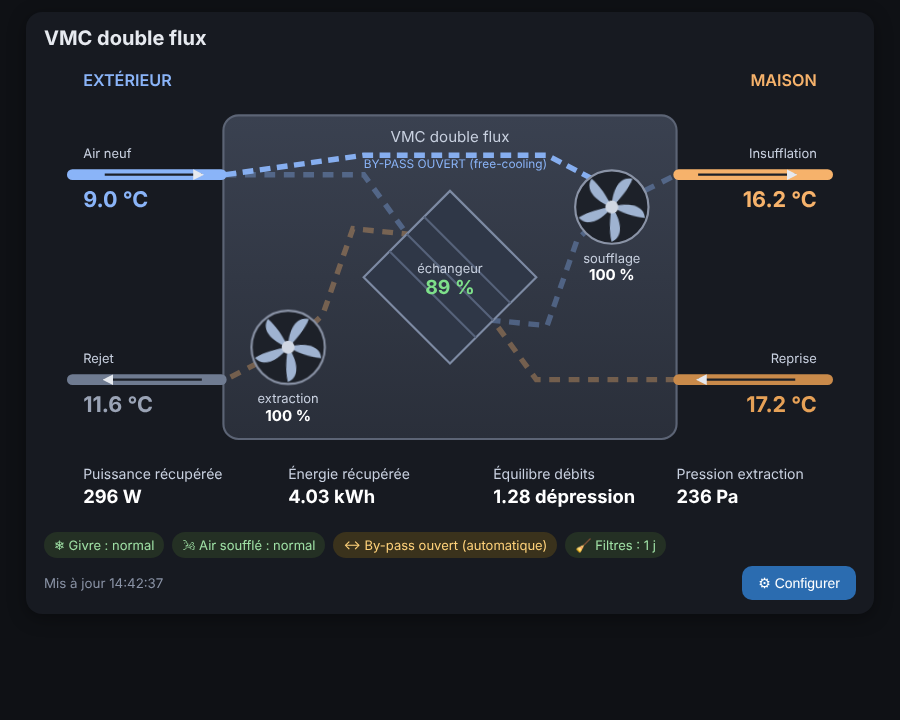
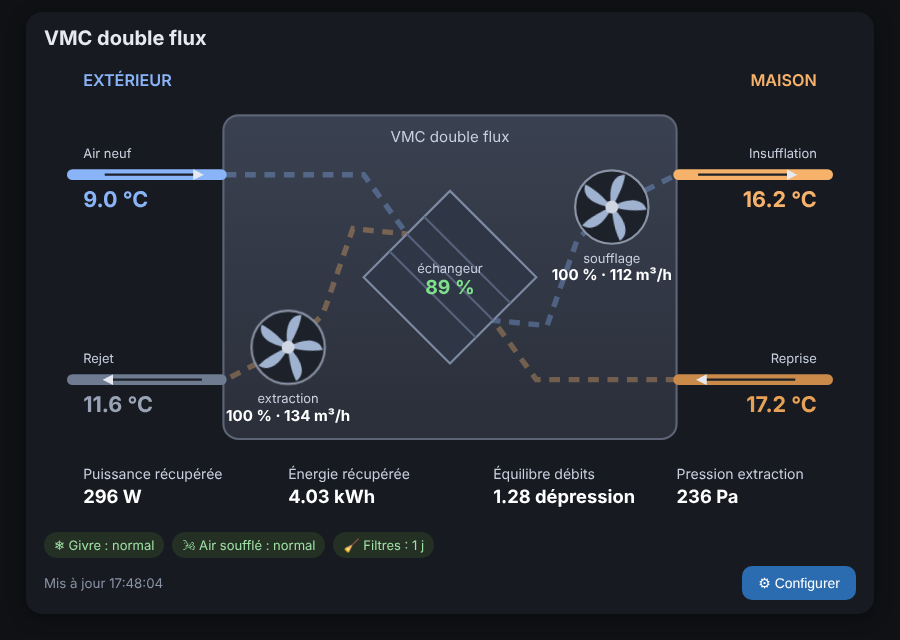
Étalonnage des débits : saisie des mesures, débits calculés en continu, puissance récupérée réelle
Claude-Session: https://claude.ai/code/session_01LVMYbbhn3WVQ2CKxBwbHL5

diff --git a/esphome/vmc_synoptique.js b/esphome/vmc_synoptique.js
@@ -29,6 +29,8 @@
     bp: "By-pass (relais)",
     bpm: "By-pass \u2013 mode",
     ag: "Antigel \u2013 baisse du soufflage",
+    qs: "D\u00e9bit soufflage",
+    qe: "D\u00e9bit extraction",
   };
 
   const slug = (s) =>
@@ -204,8 +206,8 @@
   function render() {
     set("v-text", f1("text", "\u00b0C")); set("v-tins", f1("tins", "\u00b0C"));
     set("v-trep", f1("trep", "\u00b0C")); set("v-trej", f1("trej", "\u00b0C"));
-    set("v-vs", num("vs") === null ? "-- %" : Math.round(num("vs")) + " %");
-    set("v-ve", num("ve") === null ? "-- %" : Math.round(num("ve")) + " %");
+    set("v-vs", (num("vs") === null ? "-- %" : Math.round(num("vs")) + " %") + (num("qs") === null ? "" : " \u00b7 " + Math.round(num("qs")) + " m\u00b3/h"));
+    set("v-ve", (num("ve") === null ? "-- %" : Math.round(num("ve")) + " %") + (num("qe") === null ? "" : " \u00b7 " + Math.round(num("qe")) + " m\u00b3/h"));
     set("v-eta", num("eta") === null ? "-- %" : Math.round(num("eta")) + " %");
     set("v-pw", num("pw") === null ? "-- W" : Math.round(num("pw")) + " W");
     set("v-en", num("en") === null ? "-- kWh" : (num("en") / 1000).toFixed(2) + " kWh");

diff --git a/README.md b/README.md
@@ -9,6 +9,7 @@ Supervision et pilotage d'une **VMC double flux** (testé sur **Atlantic Duocosy
 - **4 sondes DS18B20** (air neuf, insufflation, reprise, rejet), avec **affectation des sondes modifiable depuis l'interface**, sans recompiler.
 - **Rendements** côté soufflage et côté extraction, rendement moyen sur 1 h, **puissance et énergie récupérées**.
 - **Rapport des débits extraction/soufflage**, calculé par bilan thermique de l'échangeur : équilibre ou dépression de la maison.
+- **Débits réels en m³/h** après saisie de mesures d'étalonnage (fil chaud), utilisés pour la puissance et l'énergie récupérées.
 - **Pression du réseau d'extraction**, mesurée par le capteur Huba d'origine (0,5-4,5 V = 0-300 Pa).
 - **Commande des 2 moteurs EC en 0-10 V**, de 10 à 100 %.
 - **Régulation automatique** : extraction **à pression constante** (consigne en Pa, comme la régulation hygro d'origine : quand les bouches s'ouvrent, l'extraction accélère), et soufflage en **suivi de l'extraction** (avec un écart réglable) ou en **équilibrage automatique** sur le rapport des débits.

diff --git a/docs/etalonnage-et-mesures.md b/docs/etalonnage-et-mesures.md
@@ -44,3 +44,18 @@ Sac de volume connu plaqué sur la bouche : débit (m³/h) = volume (L) ÷ temps
 | 75 | | | | | |
 | 50 | | | | | |
 | 25 | | | | | |
+
+## Saisie de l'étalonnage dans l'ESP
+
+Section **« Étalonnage des débits »** (page web → Configurer, ou Home Assistant) :
+
+| Champ | Quand le remplir |
+|---|---|
+| Débit soufflage mesuré à 100 % | Indispensable pour avoir des débits réels |
+| Débit soufflage mesuré à 50 % (option) | Améliore la précision en bas de plage (droite par 2 points) |
+| Débit extraction mesuré à 100 % | Débit d'extraction proportionnel à la vitesse |
+
+- Valeur **0** = non étalonné. Le soufflage reprend alors le « Débit estimé » saisi à la main, et l'extraction est estimée par soufflage × rapport des débits.
+- Les capteurs **Débit soufflage** et **Débit extraction** (m³/h) sont affichés sous les ventilateurs de la page web.
+- La **puissance et l'énergie récupérées** utilisent le débit de soufflage étalonné.
+- Le débit de soufflage tient compte de la baisse appliquée par l'antigel.

diff --git a/CHANGELOG.md b/CHANGELOG.md
@@ -1,5 +1,12 @@
 # Historique des versions
 
+## v1.2.0 (15/11/2026) : étalonnage des débits
+
+- Nouvelle section **« Étalonnage des débits »** : débits mesurés à 100 % (et en option à 50 %) au soufflage, et à 100 % à l'extraction.
+- Nouveaux capteurs **Débit soufflage** et **Débit extraction** (m³/h), calculés en continu selon la vitesse (et l'antigel).
+- La **puissance et l'énergie récupérées** utilisent le débit de soufflage étalonné.
+- Page web : débits affichés sous les ventilateurs.
+
 ## v1.1.0 (15/11/2026) : régulation automatique et antigel
 
 ### Nouveautés
